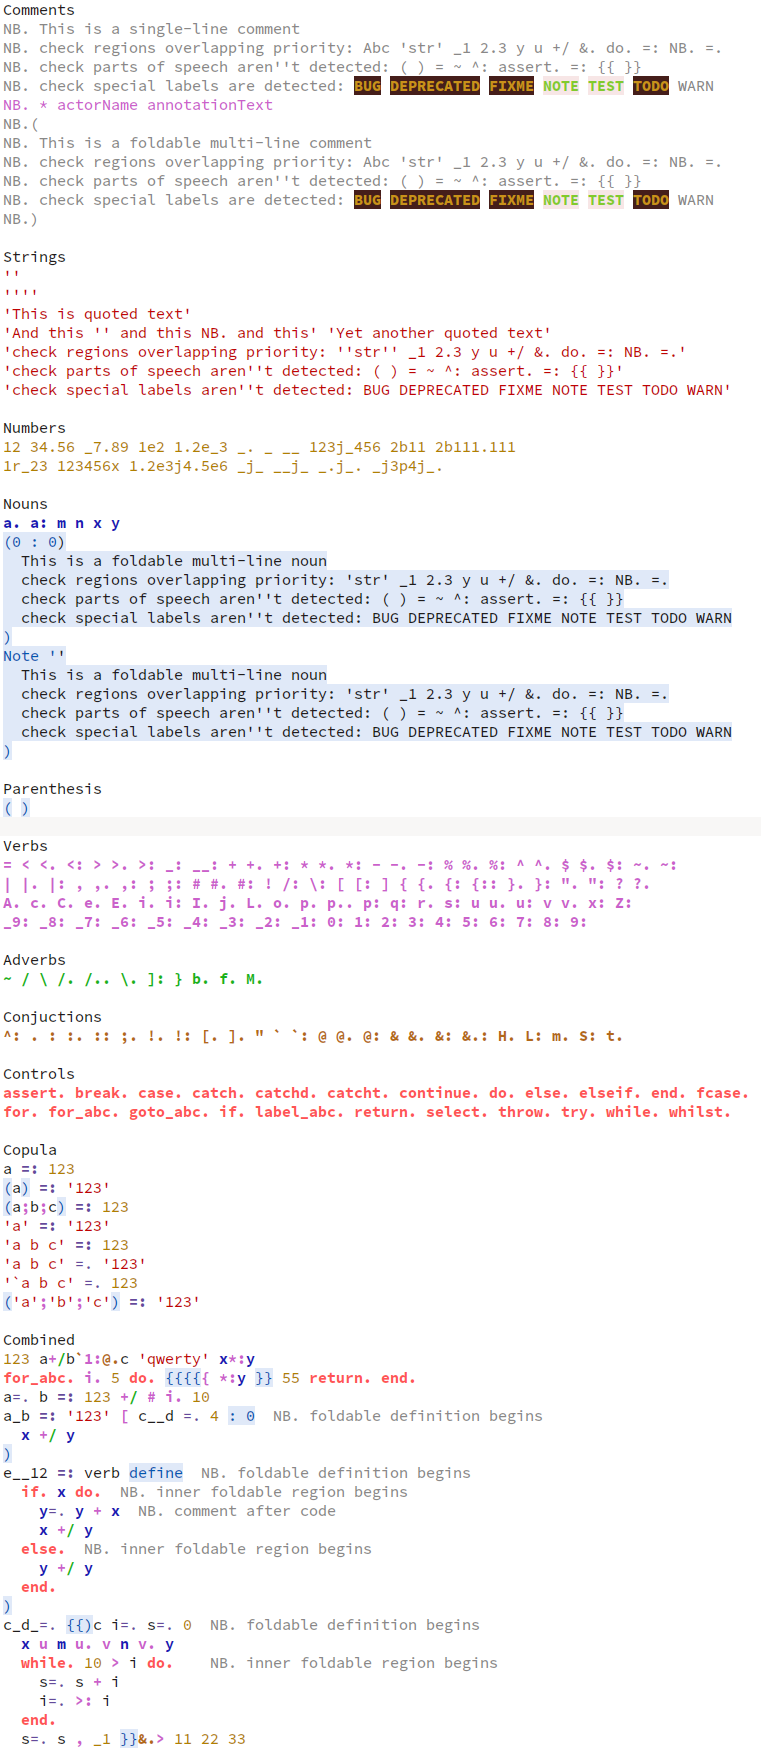
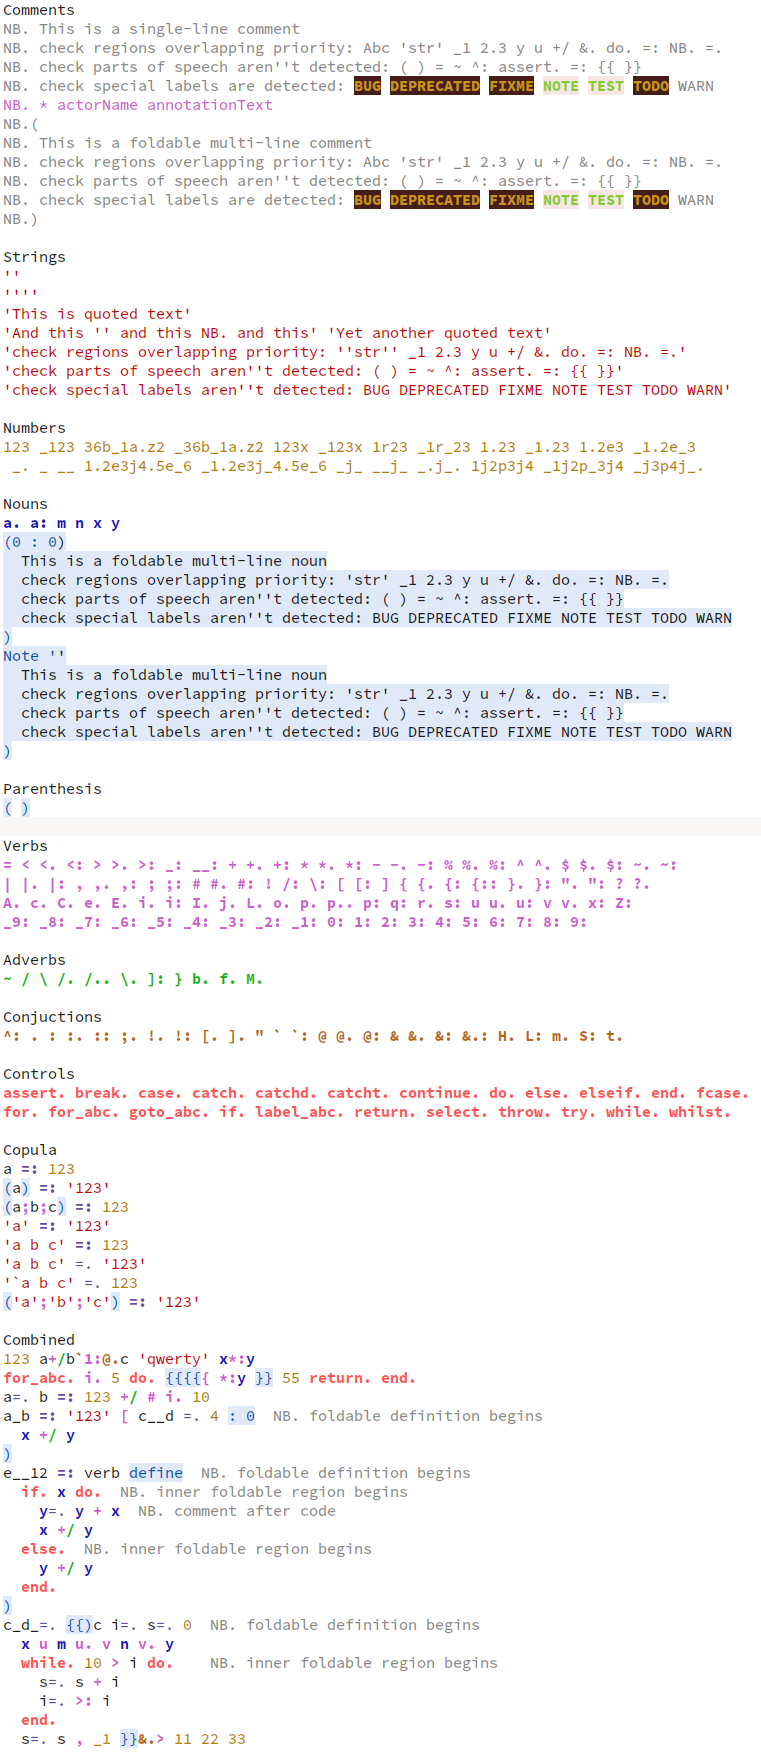
update J syntax
tests:
- test.ijs : improve 'Numbers' section

J syntax for Kate, version 7
- fix bnum entitiy definition
- improve comments
- bump version
- update a demo

J syntax for mc
- update a demo

Changes to be committed:
	modified:   Kate/j.xml
	modified:   Kate/test.ijs.html
	modified:   Kate/test.ijs.png
	modified:   mc/test.ijs.png
	modified:   test.ijs

Changed region(s): [[0.0302, 0.2459, 0.6951, 0.2766], [0.7254, 0.2459, 0.816, 0.2766], [0.8463, 0.2459, 0.9067, 0.2766]]

diff --git a/Kate/test.ijs.html b/Kate/test.ijs.html
@@ -27,8 +27,8 @@ Strings
 <span style="color:#bf0303">'check special labels aren''t detected: BUG DEPRECATED FIXME NOTE TEST TODO WARN'</span>
 
 Numbers
-<span style="color:#b08000">12</span> <span style="color:#b08000">34.56</span> <span style="color:#b08000">_7.89</span> <span style="color:#b08000">1e2</span> <span style="color:#b08000">1.2e_3</span> <span style="color:#b08000">_.</span> <span style="color:#b08000">_</span> <span style="color:#b08000">__</span> <span style="color:#b08000">123j_456</span> <span style="color:#b08000">2b11</span> <span style="color:#b08000">2b111.111</span>
-<span style="color:#b08000">1r_23</span> <span style="color:#b08000">123456x</span> <span style="color:#b08000">1.2e3j4.5e6</span> <span style="color:#b08000">_j_</span> <span style="color:#b08000">__j_</span> <span style="color:#b08000">_.j_.</span> <span style="color:#b08000">_j3p4j_.</span>
+<span style="color:#b08000">123</span> <span style="color:#b08000">_123</span> <span style="color:#b08000">36b_1a.z2</span> <span style="color:#b08000">_36b_1a.z2</span> <span style="color:#b08000">123x</span> <span style="color:#b08000">_123x</span> <span style="color:#b08000">1r23</span> <span style="color:#b08000">_1r_23</span> <span style="color:#b08000">1.23</span> <span style="color:#b08000">_1.23</span> <span style="color:#b08000">1.2e3</span> <span style="color:#b08000">_1.2e_3</span>
+ <span style="color:#b08000">_.</span> <span style="color:#b08000">_</span> <span style="color:#b08000">__</span> <span style="color:#b08000">1.2e3j4.5e_6</span> <span style="color:#b08000">_1.2e3j_4.5e_6</span> <span style="color:#b08000">_j_</span> <span style="color:#b08000">__j_</span> <span style="color:#b08000">_.j_.</span> <span style="color:#b08000">1j2p3j4</span> <span style="color:#b08000">_1j2p_3j4</span> <span style="color:#b08000">_j3p4j_.</span>
 
 Nouns
 <span style="color:#1818b2;font-weight:bold">a.</span> <span style="color:#1818b2;font-weight:bold">a:</span> <span style="color:#1818b2;font-weight:bold">m</span> <span style="color:#1818b2;font-weight:bold">n</span> <span style="color:#1818b2;font-weight:bold">x</span> <span style="color:#1818b2;font-weight:bold">y</span>
